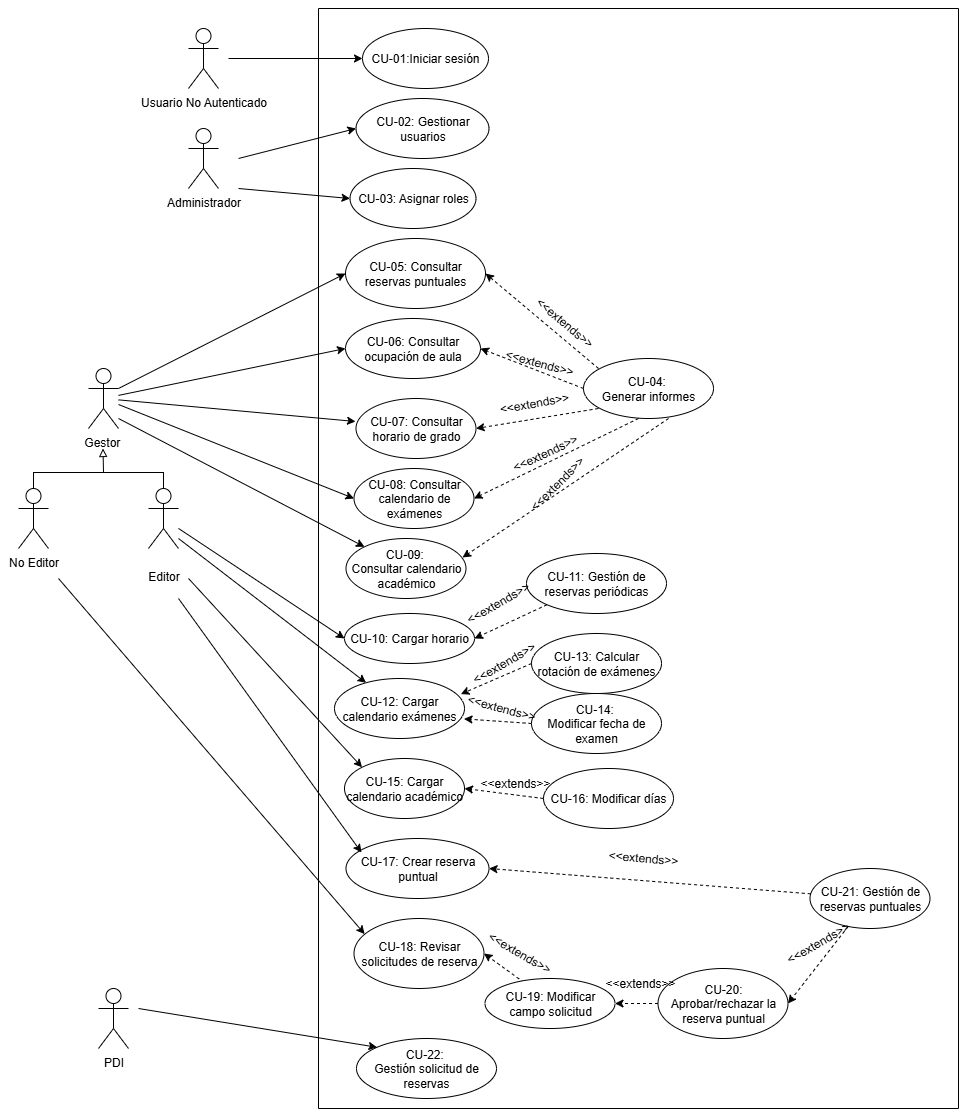
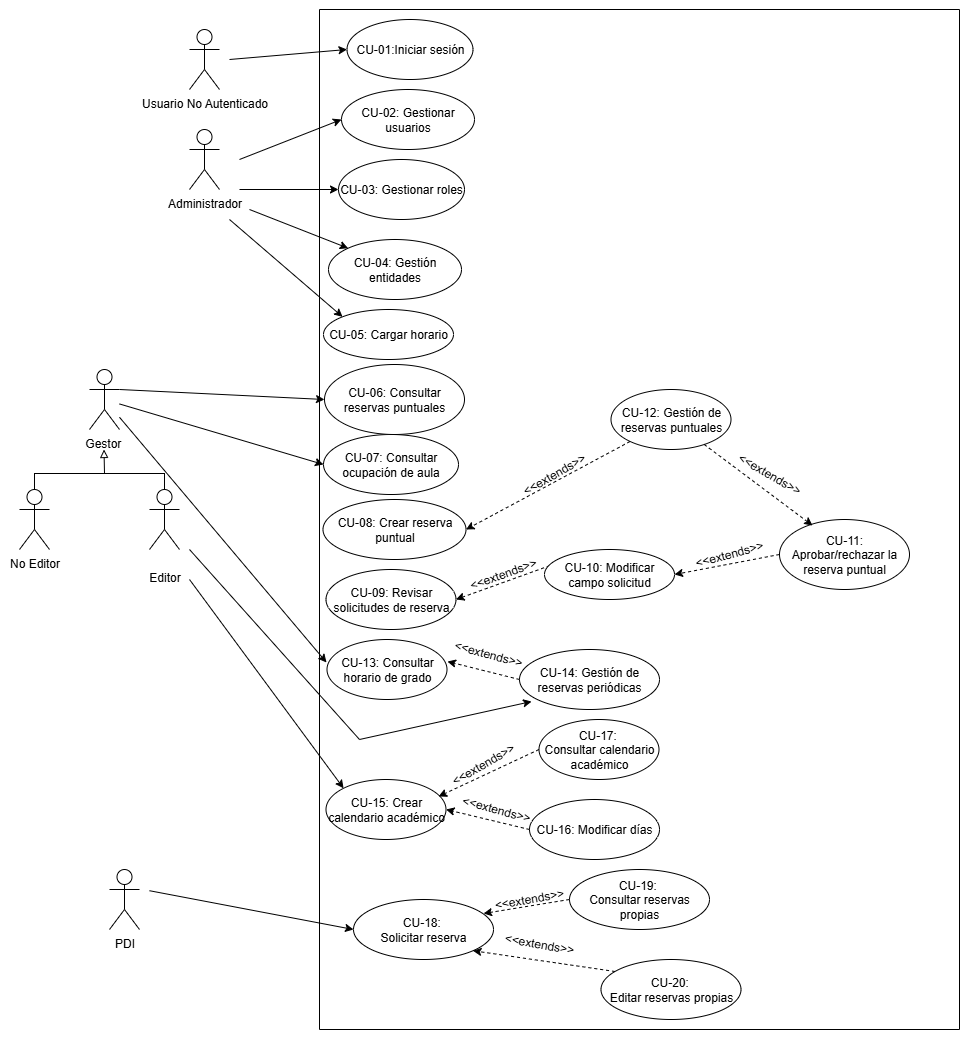
Modificar diagrama de casos de uso

diff --git a/doc/tex/B_Requisitos.tex b/doc/tex/B_Requisitos.tex
@@ -125,7 +125,7 @@ En este apartado se detallan todos los requisitos que debe  satisfacer la aplica
 		\textbf{Versión}              & 1.0    \\
 		\textbf{Autor}                & Rebeca Cuesta Estépar \\
 		\textbf{Requisitos asociados} & RF-01 \\
-		\textbf{Descripción}          & Un usuario no autenticado, introduce las credenciales (correo y contraseña). Si son credenciales válidas , se le permite acceder a la aplicación redirigiéndole en función de su rol, si las credenciales son inválidas se mostrará el mensaje de error y no se le permitirá el acceso. \\
+		\textbf{Descripción}          & Un usuario no autenticado, introduce las credenciales (correo y contraseña), y se mandan a la API del moodle de la universidad. Si son credenciales válidas , se le permite acceder a la aplicación redirigiéndole en función de su rol, si las credenciales son inválidas se mostrará el mensaje de error y no se le permitirá el acceso. \\
 		\textbf{Precondición}         & El usuario está registrado y su cuenta se encuentra activa \\
 		\textbf{Acciones}             & 
 		\begin{enumerate}
@@ -135,8 +135,9 @@ En este apartado se detallan todos los requisitos que debe  satisfacer la aplica
 			\item Introducir contraseña
 			\item El sistema valida el formato
 			\item El sistema verifica las credenciales
+			\item El sistema comprueba el rol del usuario
 			\item Se crea la sesión
-			\item Se redirige a la pantalla correspondiente según su rol
+			\item Se redirige a la pantalla de gestión de reservas
 		\end{enumerate}\\
 		\textbf{Postcondición}        & En caso de éxito en el inicio de sesión, el usuario tendrá una sesión activa y el usuario queda en su panel correspondiente. En caso de fallo no se crea la sesión, se incrementa el contador de intentos fallidos y se muestra el mensaje de error. \\
 		\textbf{Excepciones}          & 
@@ -161,8 +162,8 @@ En este apartado se detallan todos los requisitos que debe  satisfacer la aplica
 		\toprule
 		\textbf{Versión}              & 1.0    \\
 		\textbf{Autor}                & Rebeca Cuesta Estépar \\
-		\textbf{Requisitos asociados} &  \\
-		\textbf{Descripción}          & El administrador puede crear, modificar y eliminar cuentas de usuario del sistema. Incluye búsqueda y listado de los usuarios. \\
+		\textbf{Requisitos asociados} &  \\ RF-06
+		\textbf{Descripción}          & El administrador puede crear, modificar y eliminar entradas de usuario del sistema, se corresponderá al rol del usuario, ya que las credenciales no las comprueba la base de datos propia. Incluye búsqueda y listado de los usuarios. \\
 		\textbf{Precondición}         & El administrador tiene que estar autenticado, tiene que disponer de los permisos para la gestión de usuarios y la base de datos tiene que estar disponible. \\
 		\textbf{Acciones}             &
 		{\small
@@ -170,7 +171,7 @@ En este apartado se detallan todos los requisitos que debe  satisfacer la aplica
 			\def\labelenumi{\arabic{enumi}.}
 			\tightlist
 			\item El administrador accede a la Gestión de Usuarios
-			\item Visualiza el listado de usuarios (nombre, email, estado), y las opciones (Añadir, editar y eliminar)
+			\item Visualiza el listado de usuarios (nombre, email, rol), y las opciones (Añadir, editar y eliminar)
 			\item El administrador pulsa \emph{Añadir}
 			\begin{enumerate}[label*=\arabic*., itemsep=0.5pt, topsep=0.5pt, leftmargin=1em]
 				\item El sistema muestra un formulario con todos los campos correspondientes a los datos necesarios
@@ -218,37 +219,35 @@ En este apartado se detallan todos los requisitos que debe  satisfacer la aplica
 	\centering
 	\begin{tabularx}{\linewidth}{ p{0.21\columnwidth} p{0.71\columnwidth} }
 		\toprule
-		\textbf{CU-03}    & \textbf{Asignar roles}\\
+		\textbf{CU-03}    & \textbf{Gestionar roles}\\
 		\toprule
 		\textbf{Versión}              & 1.0    \\
 		\textbf{Autor}                & Rebeca Cuesta Estépar \\
-		\textbf{Requisitos asociados} &  \\
+		\textbf{Requisitos asociados} &  \\ RF-04
 		\textbf{Descripción}          & El administrador asigna, cambio o quitar roles a usuarios para determinar los permisos de acceso. \\
-		\textbf{Precondición}         & El administrador tiene que estar autenticado, que el usuario sobre el que se actúa exista, y que los roles estén disponibles. \\
+		\textbf{Precondición}         & El administrador tiene que estar autenticado, que el usuario sobre el que se actúa exista, y que los roles estén disponibles. Podrá gestionar los permisos de cada rol \\
 		\textbf{Acciones}             &
 		\begin{enumerate}
 			\def\labelenumi{\arabic{enumi}.}
 			\tightlist
-			\item El administrador accede a \emph{Gestión de usuarios} y selecciona un usuario.
-			\item El sistema muestra los datos del usuario y sus roles actuales.
+			\item El administrador accede a \emph{Gestión de roles} y selecciona un rol.
+			\item El sistema muestra los nombres de los roles actuales.
 			\item El administrador pulsa \emph{Añadir rol}.
 			\begin{enumerate}[label*=\arabic*., itemsep=0.5pt, topsep=0.5pt, leftmargin=1em]
-				\item El sistema muestra el listado de roles disponibles (no asignados).
-				\item El administrador selecciona uno o varios roles y confirma.
-				\item El sistema valida compatibilidad de roles.
-				\item El sistema asigna el o los roles y confirma.
+				\item El usuario rellena el nombre del rol que quiere crear.
+				\item El administrador selecciona los permisos que quiere asignar a ese rol.
+				\item El sistema asigna los permisos al rol.
 			\end{enumerate}
 			\item El administrador pulsa \emph{Editar roles}.
 			\begin{enumerate}[label*=\arabic*., itemsep=0.5pt, topsep=0.5pt, leftmargin=1em]
-			\item El sistema muestra roles actuales y disponibles.
-			\item El administrador desmarca o marca roles y confirma.
-			\item El sistema valida y actualiza los roles y los confirma.
-			\item El administrador selecciona un rol asignado y pulsa \emph{Quitar  rol}.
+			\item El sistema muestra el nombre del rol.
+			\item El sistema muestra marcados los permisos de los que dispone.
+			\item El administrador actualiza el listado de permisos y confirma.
 			\end{enumerate}
 			\begin{enumerate}[label*=\arabic*., itemsep=0.5pt, topsep=0.5pt, leftmargin=1em]
 			\item El sistema solicita confirmación y muestra las consecuencias
 			\item El administrador confirma.
-			\item El sistema quita el rol, actualiza permisos y confirma.
+			\item El sistema elimina el rol.
 			\end{enumerate}
 		\end{enumerate}\\
 		\textbf{Postcondición}        & Se actualizan los roles del usuario, pero si falla no hay cambios y se muestra el mensaje de error \\
@@ -256,8 +255,8 @@ En este apartado se detallan todos los requisitos que debe  satisfacer la aplica
 		{\small
 			\begin{itemize}
 				\tightlist
-				\item \textbf{Ex1.} Usuario inactivo o inexistente \textrightarrow{} impedir acción.
-				\item \textbf{Ex2.} No se puede dejar al usuario sin ningún rol \textrightarrow{} impedir quitar todos los roles
+				\item \textbf{Ex1.} Usuario sin permisos suficientes \textrightarrow{} el sistema impedirá el acceso a la gestión de roles y mostrará un mensaje de error indicando que no dispone de autorización.
+				\item \textbf{Ex2.} Nombre de rol duplicado \textrightarrow{} el sistema no guardará los cambios y mostrará un mensaje indicando que ya existe un rol con ese nombre
 			\end{itemize} 
 		}\\
 		\textbf{Importancia}          & Alta \\
@@ -266,49 +265,11 @@ En este apartado se detallan todos los requisitos que debe  satisfacer la aplica
 	\caption{CU-03 Asignar roles}
 \end{table}
 
-
 \begin{table}[p]
 	\centering
 	\begin{tabularx}{\linewidth}{ p{0.21\columnwidth} p{0.71\columnwidth} }
 		\toprule
-		\textbf{CU-04}    & \textbf{Generar informes}\\
-		\toprule
-		\textbf{Versión}              & 1.0    \\
-		\textbf{Autor}                & Rebeca Cuesta Estépar \\
-		\textbf{Requisitos asociados} &  \\
-		\textbf{Descripción}          & El usuario genera los informes a partir de la información seleccionada (reservas puntuales, ocupación de aulas, horario de grados, exámenes) para poder exportar los resultados.\\
-		\textbf{Precondición}         & Que sea un usuario autenticado, que tenga los privilegios necesarios para poder hacerlo, que la base de datos esté disponible y que existan datos para generar los informes.\\
-		\textbf{Acciones}             &
-		\begin{enumerate}
-			\def\labelenumi{\arabic{enumi}.}
-			\tightlist
-			\item El usuario accede al módulo \emph{Generar informes}
-			\item El usuario selecciona el tipo de informe que desea generar
-			\item Elige los filtros que desea
-			\item El sistema consulta los datos en la base de datos
-			\item Se genera una vista previa del informe
-			\item El sistema genera la exportación con el archivo
-		\end{enumerate}\\
-		\textbf{Postcondición}        & El informe se genera, y si el usuario lo selecciona, se exporta el informe. Si ocurre algún fallo se muestra el mensaje de error correspondiente \\
-		\textbf{Excepciones}          & 
-		\begin{itemize}
-			\tightlist
-			\item \textbf{Ex1:} Que no existan los datos para los filtros que ha solicitado el usuario \textrightarrow{} Mostrar el mensaje de que no hay resultados
-			\item \textbf{Ex2:} Fallo en la conexión a la base de datos \textrightarrow{} mostrar el error y cancelar la generación
-			\item \textbf{Ex3:} Fallo al generar el archivo de exportación \textrightarrow{} mostrar error
-		\end{itemize} \\
-		\textbf{Importancia}          & Alta \\
-		\bottomrule
-	\end{tabularx}
-	\caption{CU-04 Generar informes}
-\end{table}
-
-
-\begin{table}[p]
-	\centering
-	\begin{tabularx}{\linewidth}{ p{0.21\columnwidth} p{0.71\columnwidth} }
-		\toprule
-		\textbf{CU-05}    & \textbf{Consultar reservas puntuales}\\
+		\textbf{CU-04}    & \textbf{Consultar reservas puntuales}\\
 		\toprule
 		\textbf{Versión}              & 1.0    \\
 		\textbf{Autor}                & Rebeca Cuesta Estépar \\
@@ -319,7 +280,7 @@ En este apartado se detallan todos los requisitos que debe  satisfacer la aplica
 		\begin{enumerate}
 			\def\labelenumi{\arabic{enumi}.}
 			\tightlist
-			\item El usuario accede al módulo \emph{Consultar reservas puntuales}.
+			\item El usuario accede al módulo \emph{Gestionar reservas puntuales}.
 			\item El sistema muestra las reservas que existen en la base de datos
 			\item El usuario puede aplicar filtros
 			\item El sistema actualiza la lista con los resultados filtrados
@@ -410,41 +371,6 @@ En este apartado se detallan todos los requisitos que debe  satisfacer la aplica
 		\bottomrule
 	\end{tabularx}
 	\caption{CU-07 Consultar horario de grado}
-\end{table}
-
-\begin{table}[p]
-	\centering
-	\begin{tabularx}{\linewidth}{ p{0.21\columnwidth} p{0.71\columnwidth} }
-		\toprule
-		\textbf{CU-08}    & \textbf{Consultar calendario de exámenes}\\
-		\toprule
-		\textbf{Versión}              & 1.0    \\
-		\textbf{Autor}                & Rebeca Cuesta Estépar \\
-		\textbf{Requisitos asociados} &  \\
-		\textbf{Descripción}          & El gestor o administrador puede consultar el calendario de los exámenes de convocatoria. El sistema muestra las fechas de los exámenes, con la asignatura el aula y la hora.  \\
-		\textbf{Precondición}         &  El usuario autenticado tiene permisos , los exámenes de los grados deben de estar cargados en el sistema y la base de datos tiene que estar disponible \\
-		\textbf{Acciones}             &
-		\begin{enumerate}
-			\def\labelenumi{\arabic{enumi}.}
-			\tightlist
-			\item El usuario accede al módulo \emph{Consultar exámenes}
-			\item El sistema muestra los grados por los que filtrar.
-			\item El usuario selecciona el grado del que quiere
-			\item El sistema muestra filtros sobre los que aplicar 
-			\item El usuario selecciona si quiere filtrar o no y pulsa \emph{Buscar}
-			\item El sistema recoge los datos asociado al grado seleccionado y los filtros mostrando los exámenes
-		\end{enumerate}\\
-		\textbf{Postcondición} & Se muestra el calendario de exámenes con los filtros y grado aplicados, con la informaciónn actualizada y recogiendo los datos de la base de datos        \\
-		\textbf{Excepciones}          & 
-		\begin{itemize}[itemsep=0.15em, parsep=0pt, topsep=0pt, leftmargin=*]
-			\tightlist
-			\item \textbf{Ex1:} Error de conexión a la base de datos \textrightarrow mostrar mensaje de error.
-			\item \textbf{Ex2:} Que no existan exámenes para los filtros seleccionados \textrightarrow mostrar mensaje de que no existen resultados
-		\end{itemize} \\
-		\textbf{Importancia}          & Media \\
-		\bottomrule
-	\end{tabularx}
-	\caption{CU-08 Consultar calendario de exámenes}
 \end{table}
 
 \begin{table}[p]
@@ -565,143 +491,6 @@ En este apartado se detallan todos los requisitos que debe  satisfacer la aplica
 	\caption{CU-11 Gestión de reservas periódicas}
 \end{table}
 
-\begin{table}[p]
-	\centering
-	\begin{tabularx}{\linewidth}{ p{0.21\columnwidth} p{0.71\columnwidth} }
-		\toprule
-		\textbf{CU-12}    & \textbf{Cargar calendario exámenes}\\
-		\toprule
-		\textbf{Versión}              & 1.0    \\
-		\textbf{Autor}                & Rebeca Cuesta Estépar \\
-		\textbf{Requisitos asociados} &  \\
-		\textbf{Descripción}          & El administrador o gestor carga en el sistema un calendario de exámenes de otro año\\
-		\textbf{Precondición}         & Que sea un usuario con permisos y que la base de datos se encuentre disponible para recoger los datos cargados \\
-		\textbf{Acciones}             &
-		\begin{enumerate}
-			\def\labelenumi{\arabic{enumi}.}
-			\tightlist
-			\item El usuario accede al apartado de \emph{Exámenes}
-			\item El usuario selecciona el grado correspondiente
-			\item El usuario pulsa en \emph{Cargar calendario}
-			\item El sistema muestra la opción de cargar un archivo del sistema (csv o Excel) 
-			\item El usuario selecciona el archivo a cargar
-			\item El sistema convierte los datos del excel a datos SQL que pueda recoger la base de datos
-			\item El sistema muestra el calendario de exámenes cargado
-		\end{enumerate}\\
-		\textbf{Postcondición} &  La base de datos queda actualizada correctamente a la hora de cargar los datos, y que los muestre correctamente en la aplicación y que si hay más calendarios de distintos años para el mismo grado permita filtrar o seleccionar el curso académico    \\
-		\textbf{Excepciones}          &  
-		\begin{itemize}
-			\tightlist
-			\item \textbf{Ex1:} Error al pasar los datos de Excel a SQL \textrightarrow{} mostrar mensaje de error y cancelar la carga de datos
-			\item \textbf{Ex2:} Subir un archivo con extensión no válida \textrightarrow{} mostrar el mensaje y pedir la corrección del archivo
-		\end{itemize}\\
-		\textbf{Importancia}          & Alta \\
-		\bottomrule
-	\end{tabularx}
-	\caption{CU-12 Cargar calendario exámenes}
-\end{table}
-
-\begin{table}[p]
-	\centering
-	\begin{tabularx}{\linewidth}{ p{0.21\columnwidth} p{0.71\columnwidth} }
-		\toprule
-		\textbf{CU-13}    & \textbf{Calcular rotación de exámenes}\\
-		\toprule
-		\textbf{Versión}              & 1.0    \\
-		\textbf{Autor}                & Rebeca Cuesta Estépar \\
-		\textbf{Requisitos asociados} &  \\
-		\textbf{Descripción}          &  El gestor o administrador genera una propuesta de calendario de exámenes tras hacer rotaciones asignando fechas y horas, y aulas a prueba cumpliendo con las restricciones. \\
-		\textbf{Precondición}         &  El usuario autenticado con permisos, que la base de ddatos esté disponible y todos los datos necesarios cargados como las aulas, asignaturas, grados,...\\
-		\textbf{Acciones}             &
-		\begin{enumerate}
-			\def\labelenumi{\arabic{enumi}.}
-			\tightlist
-			\item El usuario accede al apartado de \emph{Planificación de exámenes \textrightarrow Rotación}
-			\item El usuario selecciona el grado sobre el que desea hacer el cálculo de los nuevos exámenes
-			\item El usuario pulsa \emph{Calcular}
-			\item El sistema realiza el cálculo de la rotación de los exámenes y muestra una previsualización
-			\item El usuario confirma la propuesta
-		\end{enumerate}\\
-		\textbf{Postcondición}        & Se genera la rotación de exámenes para el grado seleccionado  \\
-		\textbf{Excepciones}         &  \\
-		\textbf{Importancia}          & Alta \\
-		\bottomrule
-	\end{tabularx}
-	\caption{CU-13 Calcular rotación de exámenes}
-\end{table}
-
-
-\begin{table}[p]
-	\centering
-	\begin{tabularx}{\linewidth}{ p{0.21\columnwidth} p{0.71\columnwidth} }
-		\toprule
-		\textbf{CU-14}    & \textbf{Modificar fecha de examen}\\
-		\toprule
-		\textbf{Versión}              & 1.0    \\
-		\textbf{Autor}                & Rebeca Cuesta Estépar \\
-		\textbf{Requisitos asociados} &  \\
-		\textbf{Descripción}          & El gestor o administrador modifica la fecha, hora o aula asignada al examen correspondiente. El sistema verificará que el cambio no viole alguna de las restricciones y que no haya conflictos con otros exámenes o reservas. \\
-		\textbf{Precondición}         &  El usuario autenticado tenga los permisos, que el examen se encuentre ya planificado y que la base de datos y las restricciones estén disponibles \\
-		\textbf{Acciones}             &
-		\begin{enumerate}
-			\def\labelenumi{\arabic{enumi}.}
-			\tightlist
-			\item El usuario accede al módulo \emph{Gestión de exámenes}
-			\item El sistema muestra el listado de los exámenes filtrando por grado u algún filtro más de manera opcional
-			\item El usuario selecciona un examen y pulsa \emph{Editar}
-			\item El sistema muestra los datos actuales del examen
-			\item El usuario modifica los datos que crea necesarios y pulsa confirmar
-			\item El sistema valida las restricciones
-			\item El sistema actualiza los datos del examen correspondiente
-		\end{enumerate}\\
-		\textbf{Postcondición} & El examen queda actualizado con los nuevos datos modificados \\
-		\textbf{Excepciones}          &  
-		\begin{itemize}
-			\tightlist
-			\item \textbf{Ex1:} Que la fecha o la hora introducida estén fuera del periodo especificado \textrightarrow{} mostrar error y solicitar nueva fecha u hora 
-			\item \textbf{Ex2:} Que el aula no esté disponible o no cumpla con el aforo necesario \textrightarrow{} impedir el cambio
-			\item \textbf{Ex3:} Que viole alguna otra restricción \textrightarrow{} Mostrar el error y no permitir el cambio
-		\end{itemize}\\
-		\textbf{Importancia}          & Alta \\
-		\bottomrule
-	\end{tabularx}
-	\caption{CU-14 Modificar fecha de examen}
-\end{table}
-
-\begin{table}[p]
-	\centering
-	\begin{tabularx}{\linewidth}{ p{0.21\columnwidth} p{0.71\columnwidth} }
-		\toprule
-		\textbf{CU-15}    & \textbf{Cargar calendario académico}\\
-		\toprule
-		\textbf{Versión}              & 1.0    \\
-		\textbf{Autor}                & Rebeca Cuesta Estépar \\
-		\textbf{Requisitos asociados} &  \\
-		\textbf{Descripción}          & El administrador o gestor carga en el sistema un calendario académico de otro año\\
-		\textbf{Precondición}         & Que sea un usuario con permisos y que la base de datos se encuentre disponible para recoger los datos cargados \\
-		\textbf{Acciones}             &
-		\begin{enumerate}
-			\def\labelenumi{\arabic{enumi}.}
-			\tightlist
-			\item El usuario accede al apartado de \emph{Calendario académico}
-			\item El usuario pulsa en \emph{Cargar calendario}
-			\item El sistema muestra una ventana con los siguientes campos: Inicio primer semestre y segundo semestre, e inicio y fin de las convocatorias de exámenes para ambos semestres.
-			\item El sistema hace los cálculos necesarios para colorear los días lectivos de ambos semestres y los de convocatoria de exámenes
-			\item El sistema muestra el calendario académico con los días 
-			\item El sistema muestra el calendario de exámenes cargado
-		\end{enumerate}\\
-		\textbf{Postcondición} &  La base de datos queda actualizada correctamente a la hora de cargar los datos, y que los muestre correctamente en la aplicación y que si hay más calendarios de distintos años grado permita seleccionar el curso académico    \\
-		\textbf{Excepciones}          &  
-		\begin{itemize}
-			\tightlist
-			\item \textbf{Ex1:} Error al cargar los datos \textrightarrow{} mostrar mensaje de error y cancelar la carga de datos
-			\item \textbf{Ex2:} Fallo de cálculos \textrightarrow{} mostrar el mensaje y pedir la corrección
-		\end{itemize}\\
-		\textbf{Importancia}          & Alta \\
-		\bottomrule
-	\end{tabularx}
-	\caption{CU-15 Cargar calendario académico}
-\end{table}
 
 \begin{table}[p]
 	\centering
@@ -912,7 +701,7 @@ En este apartado se detallan todos los requisitos que debe  satisfacer la aplica
 		\textbf{Versión}              & 1.0    \\
 		\textbf{Autor}                & Rebeca Cuesta Estépar \\
 		\textbf{Requisitos asociados} &  \\
-		\textbf{Descripción}          & El gestor o administrador puede consultar, modificar o eliminar reservas puntuales existentes, validando que no se violen las restricciones \\
+		\textbf{Descripción}          & El gestor o administrador puede crear, modificar o eliminar reservas puntuales existentes, validando que no se violen las restricciones \\
 		\textbf{Precondición}         & El usuario debe tener los permisos de gestionar las reservas, que estas se encuentren registradas y la base de datos y las validaciones se encuentren disponibles \\
 		\textbf{Acciones}             &
 		\begin{enumerate}